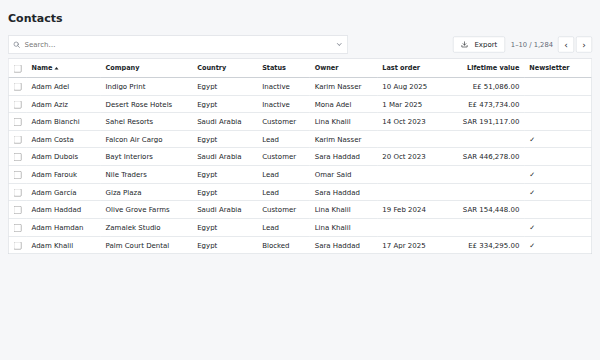
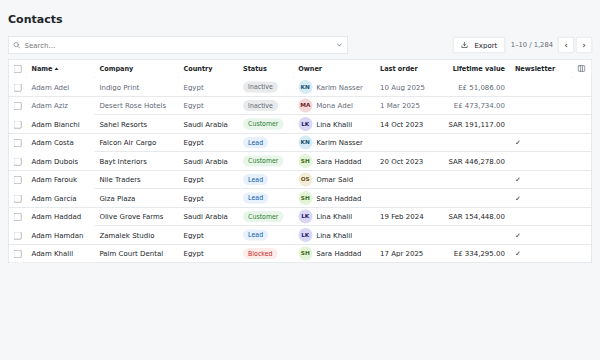
docs: cards, a gallery and columns shaped; their demos' thumbnails

diff --git a/libs/viewer/README.md b/libs/viewer/README.md
@@ -310,12 +310,49 @@ to one value on the records chosen, after a question, by `writeMany` or a save
 per record, each record's `can` kept, and names what it could not change and
 why. See [taking records away, changing many](https://fieldia.dev/lists/#bulk).
 
+### Lists people read anywhere and shape themselves
+
+**Cards.** With `card`, a list's rows become cards where the list is as narrow
+as a phone (520px or less): a title, a picture — or a person's initials — a
+few lines and a status pill, each by field; `"card": {}` takes them from the
+columns. With `gallery`, the switcher offers **Gallery** on any width: cards
+side by side, their pictures large (`"size"`: `small`, `medium`, `large`),
+`"opens": "gallery"` to open on it. A card is its row: ticked (Select all,
+Export, Edit), opened, toned, its buttons pressed, under its Group By heading,
+the totals under the cards and in sight while they scroll.
+
+```json
+"card": { "title": "name", "image": "photo", "status": "offer", "lead": true,
+          "fields": ["price", ["district", { "field": "bedrooms", "unit": { "one": "bedroom", "other": "bedrooms" } }]] },
+"gallery": { "opens": "gallery" }
+```
+
+**Richer rows.** A column's cells (`cells.<field>.widget`): `badge` (a pill, by
+`options.tones` or `options.colours` by value), `tags` (links as chips),
+`image` and `avatar` (a picture, or a person's initials), `progressbar`
+(`options.max`), `percentage` and `duration`, and `phone` with
+`"options": { "links": true }` (a call and a WhatsApp link). Each row's tone
+while a condition on its record holds (`rowTones`), its bold (`rowBold`), and
+buttons on each row (`rowButtons`, each shown by its `invisible` read on the
+row's record, pressed with that record alone).
+
+**Columns people control.** With `optionalColumns` — the columns a person may
+hide, each `show` or `hide` at first — the header has a **Columns** menu: show,
+hide and order the columns (Move up, Move down, or Alt with an arrow), Reset to
+the page's; a header's edge drags (or its grip takes the arrow keys) to size
+its column; the header and the first column stay in view as the rows scroll.
+The person's columns are kept in the viewer's `preferences`
+(`<page>.<list>.columns`; the browser's storage unless the app gives its own).
+Export writes the columns shown, in their order. The cards and the columns come
+in parts of their own (`fieldia.cards.js`, `fieldia.columns.js`), only where a
+list asks. See [lists people shape](https://fieldia.dev/lists/#shape).
+
 ## With no build step
 
 This package carries a `<script>` bundle that sets the global `Fieldia`
-(core, widgets and viewer; about 167 KB gzipped). What a page uses beyond
+(core, widgets and viewer; about 168 KB gzipped). What a page uses beyond
 plain fields — a list's screen, a table of lines, a date's box, a phone, a
-theme… — comes in 15 parts beside it (`fieldia.list.js`, `fieldia.date.js`, …),
+theme… — comes in 17 parts beside it (`fieldia.list.js`, `fieldia.date.js`, …),
 each loaded from the same folder the first time a page uses it:
 
 ```html
